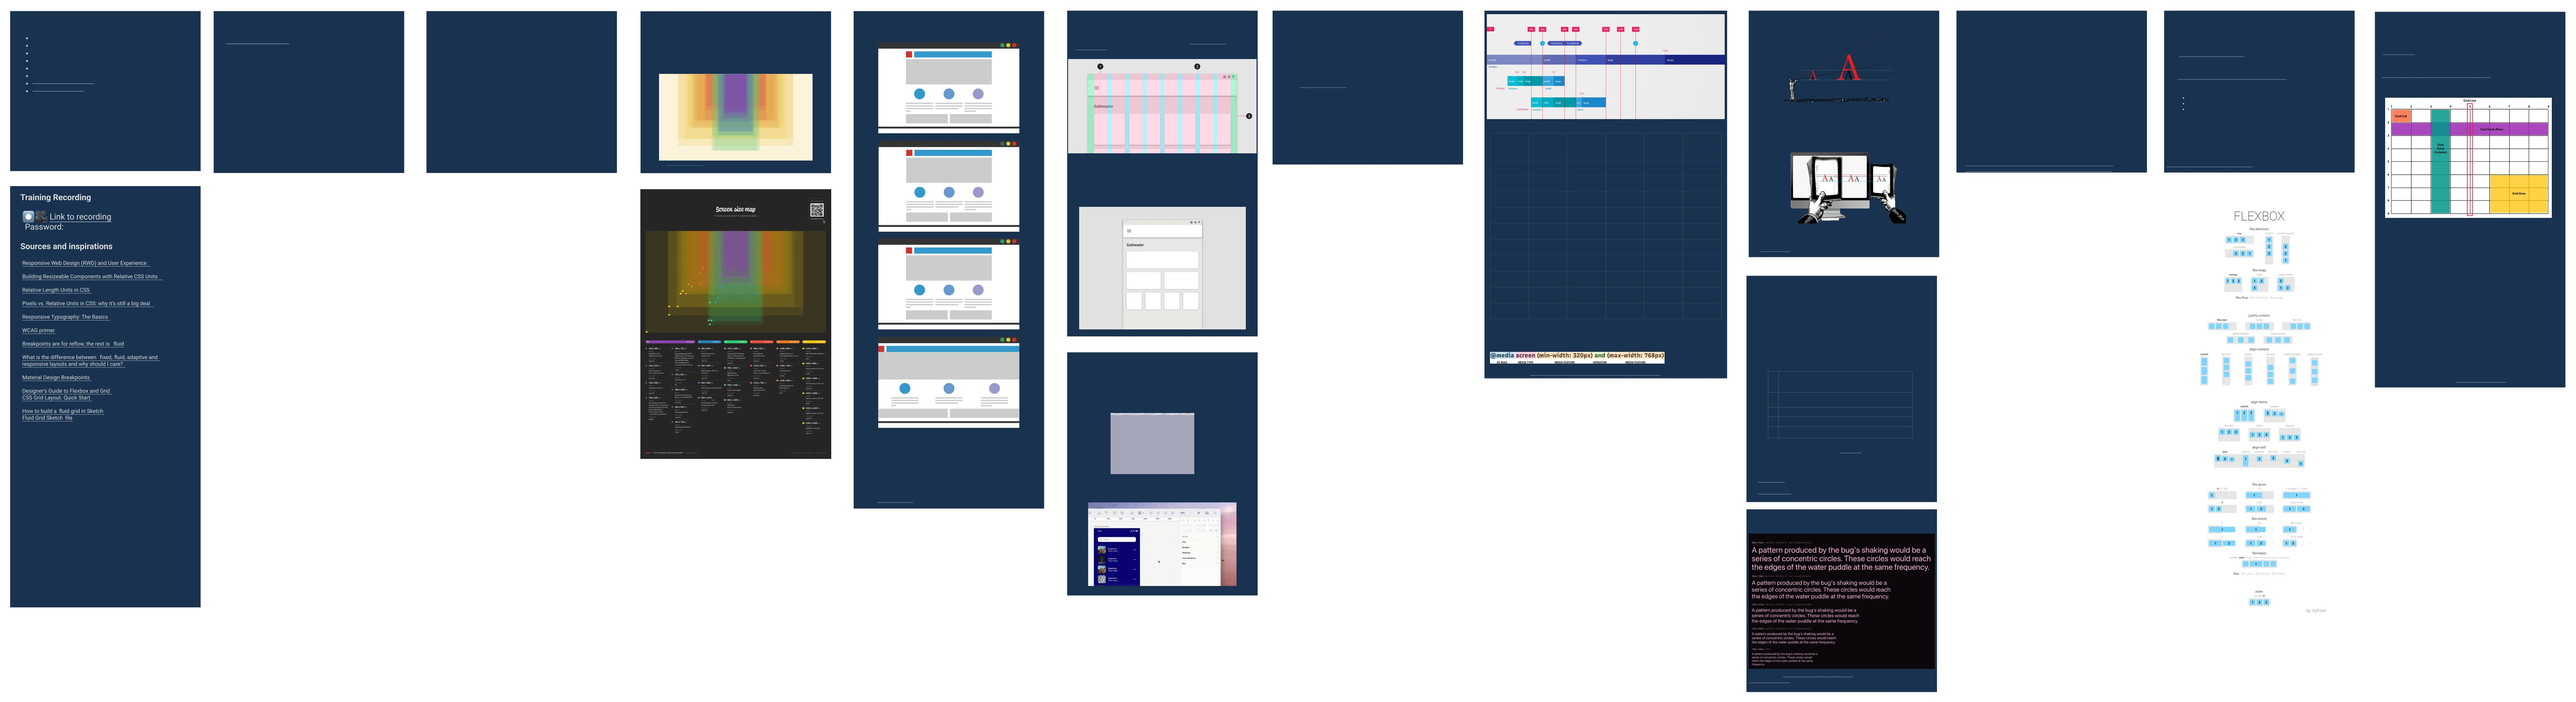
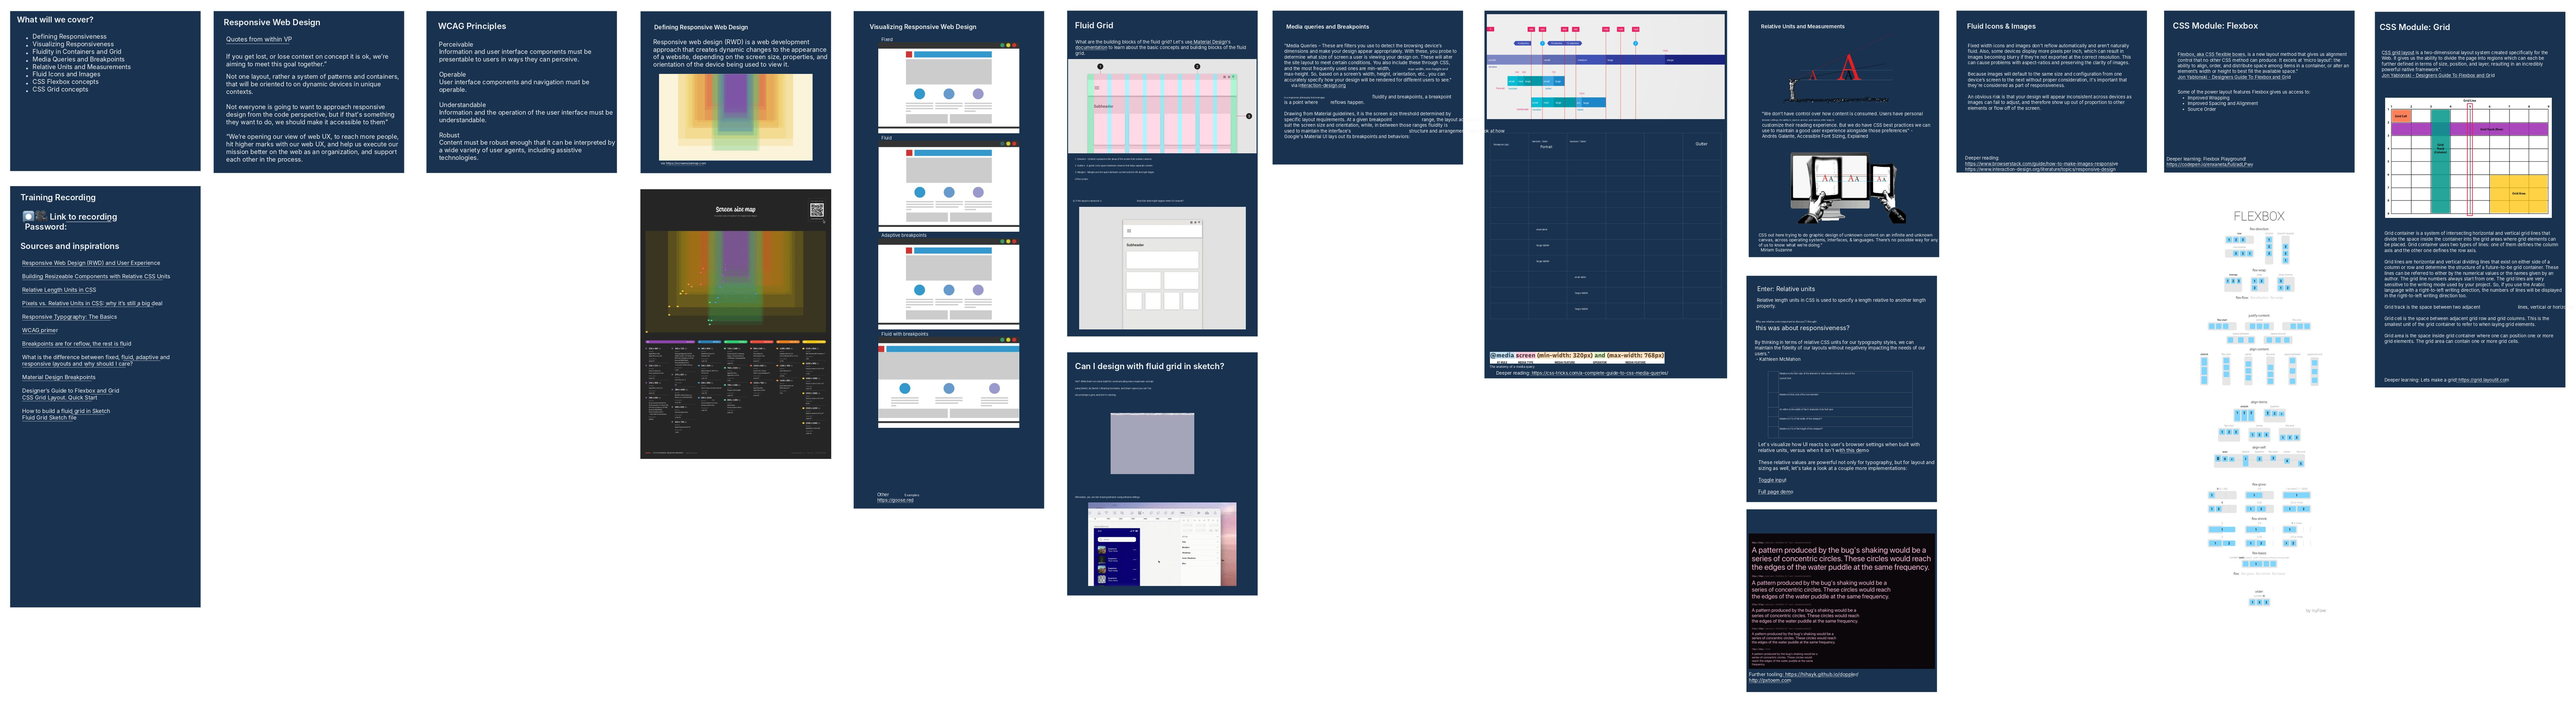
Portfolio: training deck with its slide text restored from the PDF, static rewards screen, partner docs tables wrap long URLs, Quickbase steps slide open and closed
Claude-Session: https://claude.ai/code/session_01ADycTHMtd6ekjSmkxt8USj

diff --git a/portfolio/components/vp-rewards.js b/portfolio/components/vp-rewards.js
@@ -1,6 +1,6 @@
-// <vp-rewards> Rebuild of the "How to earn" rewards-for-steps prototype.
-// The daily total counts only the activity with the most points; logging
-// activity moves the "Active" flag to whichever one leads.
+// <vp-rewards> Rebuild of the "How to earn" rewards-for-steps prototype. It shows the member's data as it stood: the
+// daily total counts only the activity with the most points, and the "Active" flag marks that activity. Nothing is
+// logged here; the activity rows are information, not controls.
 import { mount, fmt, focusCss } from './shared.js';
 
 const MAX = 140;
@@ -32,8 +32,7 @@ ${focusCss}
 .acts { list-style: none; margin: 12px 0 0; padding: 0; }
 .acts li + li { margin-top: 2px; }
 .or { text-align: center; font-size: 11px; color: #7d878c; letter-spacing: .1em; margin: 2px 0; }
-.act { width: 100%; display: grid; grid-template-columns: 56px 26px 1fr auto; gap: 8px; align-items: center; background: none; border: 0; padding: 10px 2px; font: inherit; color: inherit; cursor: pointer; text-align: left; border-radius: 6px; }
-.act:hover { background: #f1f5f6; }
+.act { display: grid; grid-template-columns: 56px 26px 1fr auto; gap: 8px; align-items: center; padding: 10px 2px; }
 .flag { visibility: hidden; background: #127a8f; color: #fff; font-size: 11px; padding: 4px 8px; clip-path: polygon(0 0, 82% 0, 100% 50%, 82% 100%, 0 100%); }
 .act[data-active="true"] .flag { visibility: visible; }
 svg { width: 24px; height: 24px; fill: none; stroke: #127a8f; stroke-width: 2; stroke-linecap: round; stroke-linejoin: round; }
@@ -75,10 +74,8 @@ class VpRewards extends HTMLElement {
           <div class="total"><span>Daily Exercise Total</span><span><span class="coin" aria-hidden="true"></span><span class="tv"></span></span></div>
           <div class="bar" role="progressbar" aria-label="Daily exercise total" aria-valuemin="0" aria-valuemax="${MAX}"><i></i></div>
           <ul class="acts">
-            ${ACTS.map((a, i) => `${i ? '<li class="or" aria-hidden="true">OR</li>' : ''}<li><button type="button" class="act" data-k="${a.key}"><span class="flag">Active</span><svg viewBox="0 0 24 24" aria-hidden="true">${a.icon}</svg><span class="name">${a.label}</span><span class="val"></span></button></li>`).join('')}
+            ${ACTS.map((a, i) => `${i ? '<li class="or" aria-hidden="true">OR</li>' : ''}<li class="act" data-k="${a.key}"><span class="flag">Active</span><svg viewBox="0 0 24 24" aria-hidden="true">${a.icon}</svg><span class="name">${a.label}</span><span class="val"></span></li>`).join('')}
           </ul>
-          <p class="hint">Tap an activity to log some. The flag follows whichever earns the most.</p>
-          <p class="hint" role="status" aria-live="polite" style="min-height:1.4em;margin:2px 0 0"></p>
         </div>
         ${sections.map((s, si) => `
           <button type="button" class="band" aria-expanded="${s.open}" aria-controls="s${si}-${uid}">${s.title} <span class="chev" aria-hidden="true">▾</span></button>
@@ -102,18 +99,9 @@ class VpRewards extends HTMLElement {
       b.setAttribute('aria-expanded', String(open));
       root.getElementById(b.getAttribute('aria-controls')).hidden = !open;
     }));
-    root.querySelectorAll('.act').forEach((b) => b.addEventListener('click', () => {
-      const a = this.acts.find((x) => x.key === b.dataset.k);
-      if (a.val >= a.goal) { this.say(`${a.label} goal already met.`); return; }
-      a.val = Math.min(a.goal, a.val + a.step);
-      this.render();
-      const lead = this.lead();
-      this.say(`Logged ${a.verb}. ${lead.label} leads with ${pts(lead)} points.`);
-    }));
     this.render();
   }
   lead() { return this.acts.reduce((m, a) => (pts(a) > pts(m) ? a : m), this.acts[0]); }
-  say(t) { this.root.querySelector('[role="status"]').textContent = t; }
   render() {
     const r = this.root, lead = this.lead(), total = pts(lead);
     r.querySelector('.tv').textContent = `${total} / ${MAX}`;
@@ -123,7 +111,7 @@ class VpRewards extends HTMLElement {
       const b = r.querySelector(`.act[data-k="${a.key}"]`);
       b.dataset.active = String(a === lead);
       b.querySelector('.val').textContent = `${fmt(a.val)} / ${fmt(a.goal)}`;
-      b.setAttribute('aria-label', `${a.label}, ${fmt(a.val)} of ${fmt(a.goal)}, ${pts(a)} points${a === lead ? ', counts toward today' : ''}. Log ${a.verb}.`);
+      b.querySelector('.flag').setAttribute('aria-hidden', String(a !== lead));   // "Active" is read only on the leader
     }
   }
 }

diff --git a/portfolio/components/qb-pipeline.js b/portfolio/components/qb-pipeline.js
@@ -252,8 +252,20 @@ class QbPipeline extends HTMLElement {
     });
   }
   setOpen(t, open) {
+    // the step body slides open and closed (height and opacity, from wherever it is), unless motion is reduced
+    const bd = this.root.getElementById(t.getAttribute('aria-controls'));
     t.setAttribute('aria-expanded', String(open));
-    this.root.getElementById(t.getAttribute('aria-controls')).hidden = !open;
+    if (reducedMotion() || !bd.isConnected) { bd.hidden = !open; return; }
+    const from = bd.hidden ? 0 : bd.getBoundingClientRect().height;
+    if (bd._anim) bd._anim.cancel();
+    bd.hidden = false;
+    const to = open ? bd.scrollHeight : 0;
+    bd.style.overflow = 'hidden';
+    bd._anim = bd.animate(
+      [{ height: from + 'px', opacity: from ? 1 : 0, paddingTop: from ? '4px' : '0px', paddingBottom: from ? '10px' : '0px' },
+       { height: to + 'px', opacity: open ? 1 : 0, paddingTop: open ? '4px' : '0px', paddingBottom: open ? '10px' : '0px' }],
+      { duration: 260, easing: open ? 'cubic-bezier(.2,.7,.2,1)' : 'cubic-bezier(.4,0,.6,1)' });
+    bd._anim.onfinish = () => { bd._anim = null; bd.style.overflow = ''; if (!open) bd.hidden = true; };
   }
   drawBranch(b) {
     const ol = this.root.querySelector(`.br[data-br="${b}"] .list`);

diff --git a/portfolio/index.html b/portfolio/index.html
@@ -220,7 +220,7 @@
         <div class="figs">
           <figure class="w4">
             <pf-artifact><vp-rewards><img src="img/vp-rewards.png" width="212" height="570" loading="lazy" alt="Mobile prototype of a How to Earn screen listing steps, active minutes, and workout minutes with progress bars toward daily, monthly, and one-time rewards."></vp-rewards></pf-artifact>
-            <figcaption>Rewards for Steps Prototype, 2022. Tap an activity to log it.</figcaption>
+            <figcaption>Rewards for Steps Prototype, 2022</figcaption>
           </figure>
           <figure class="w8">
             <pf-artifact><vp-api-docs><img src="img/vp-partner-api.png" width="458" height="671" loading="lazy" alt="Partner API documentation page prototype with a navigation column, explanatory text in the middle, and example JSON responses in a dark code panel."></vp-api-docs></pf-artifact>

diff --git a/portfolio/components/vp-api-docs.js b/portfolio/components/vp-api-docs.js
@@ -115,7 +115,10 @@ h5 { margin: 14px 0 6px; font-size: 12px; }
 p { margin: 0 0 10px; line-height: 1.6; }
 aside { border: 1px solid #d9e1e5; border-radius: 4px; padding: 8px 10px; background: #f7fafb; }
 aside b { margin-right: 6px; }
-table { border-collapse: collapse; width: 100%; margin: 4px 0 12px; font-size: 11px; }
+table { border-collapse: collapse; width: 100%; margin: 4px 0 12px; font-size: 11px; table-layout: fixed; }
+/* long URLs and hostnames wrap inside their cell instead of pushing the table into the example column */
+th, td { overflow-wrap: anywhere; }
+.txt code { overflow-wrap: anywhere; }
 th, td { text-align: left; padding: 6px 8px; border: 1px solid #e3e7ea; vertical-align: top; }
 th { background: #f4f6f7; }
 code, pre { font-family: var(--f-mono, ui-monospace, monospace); font-size: 10.5px; }
